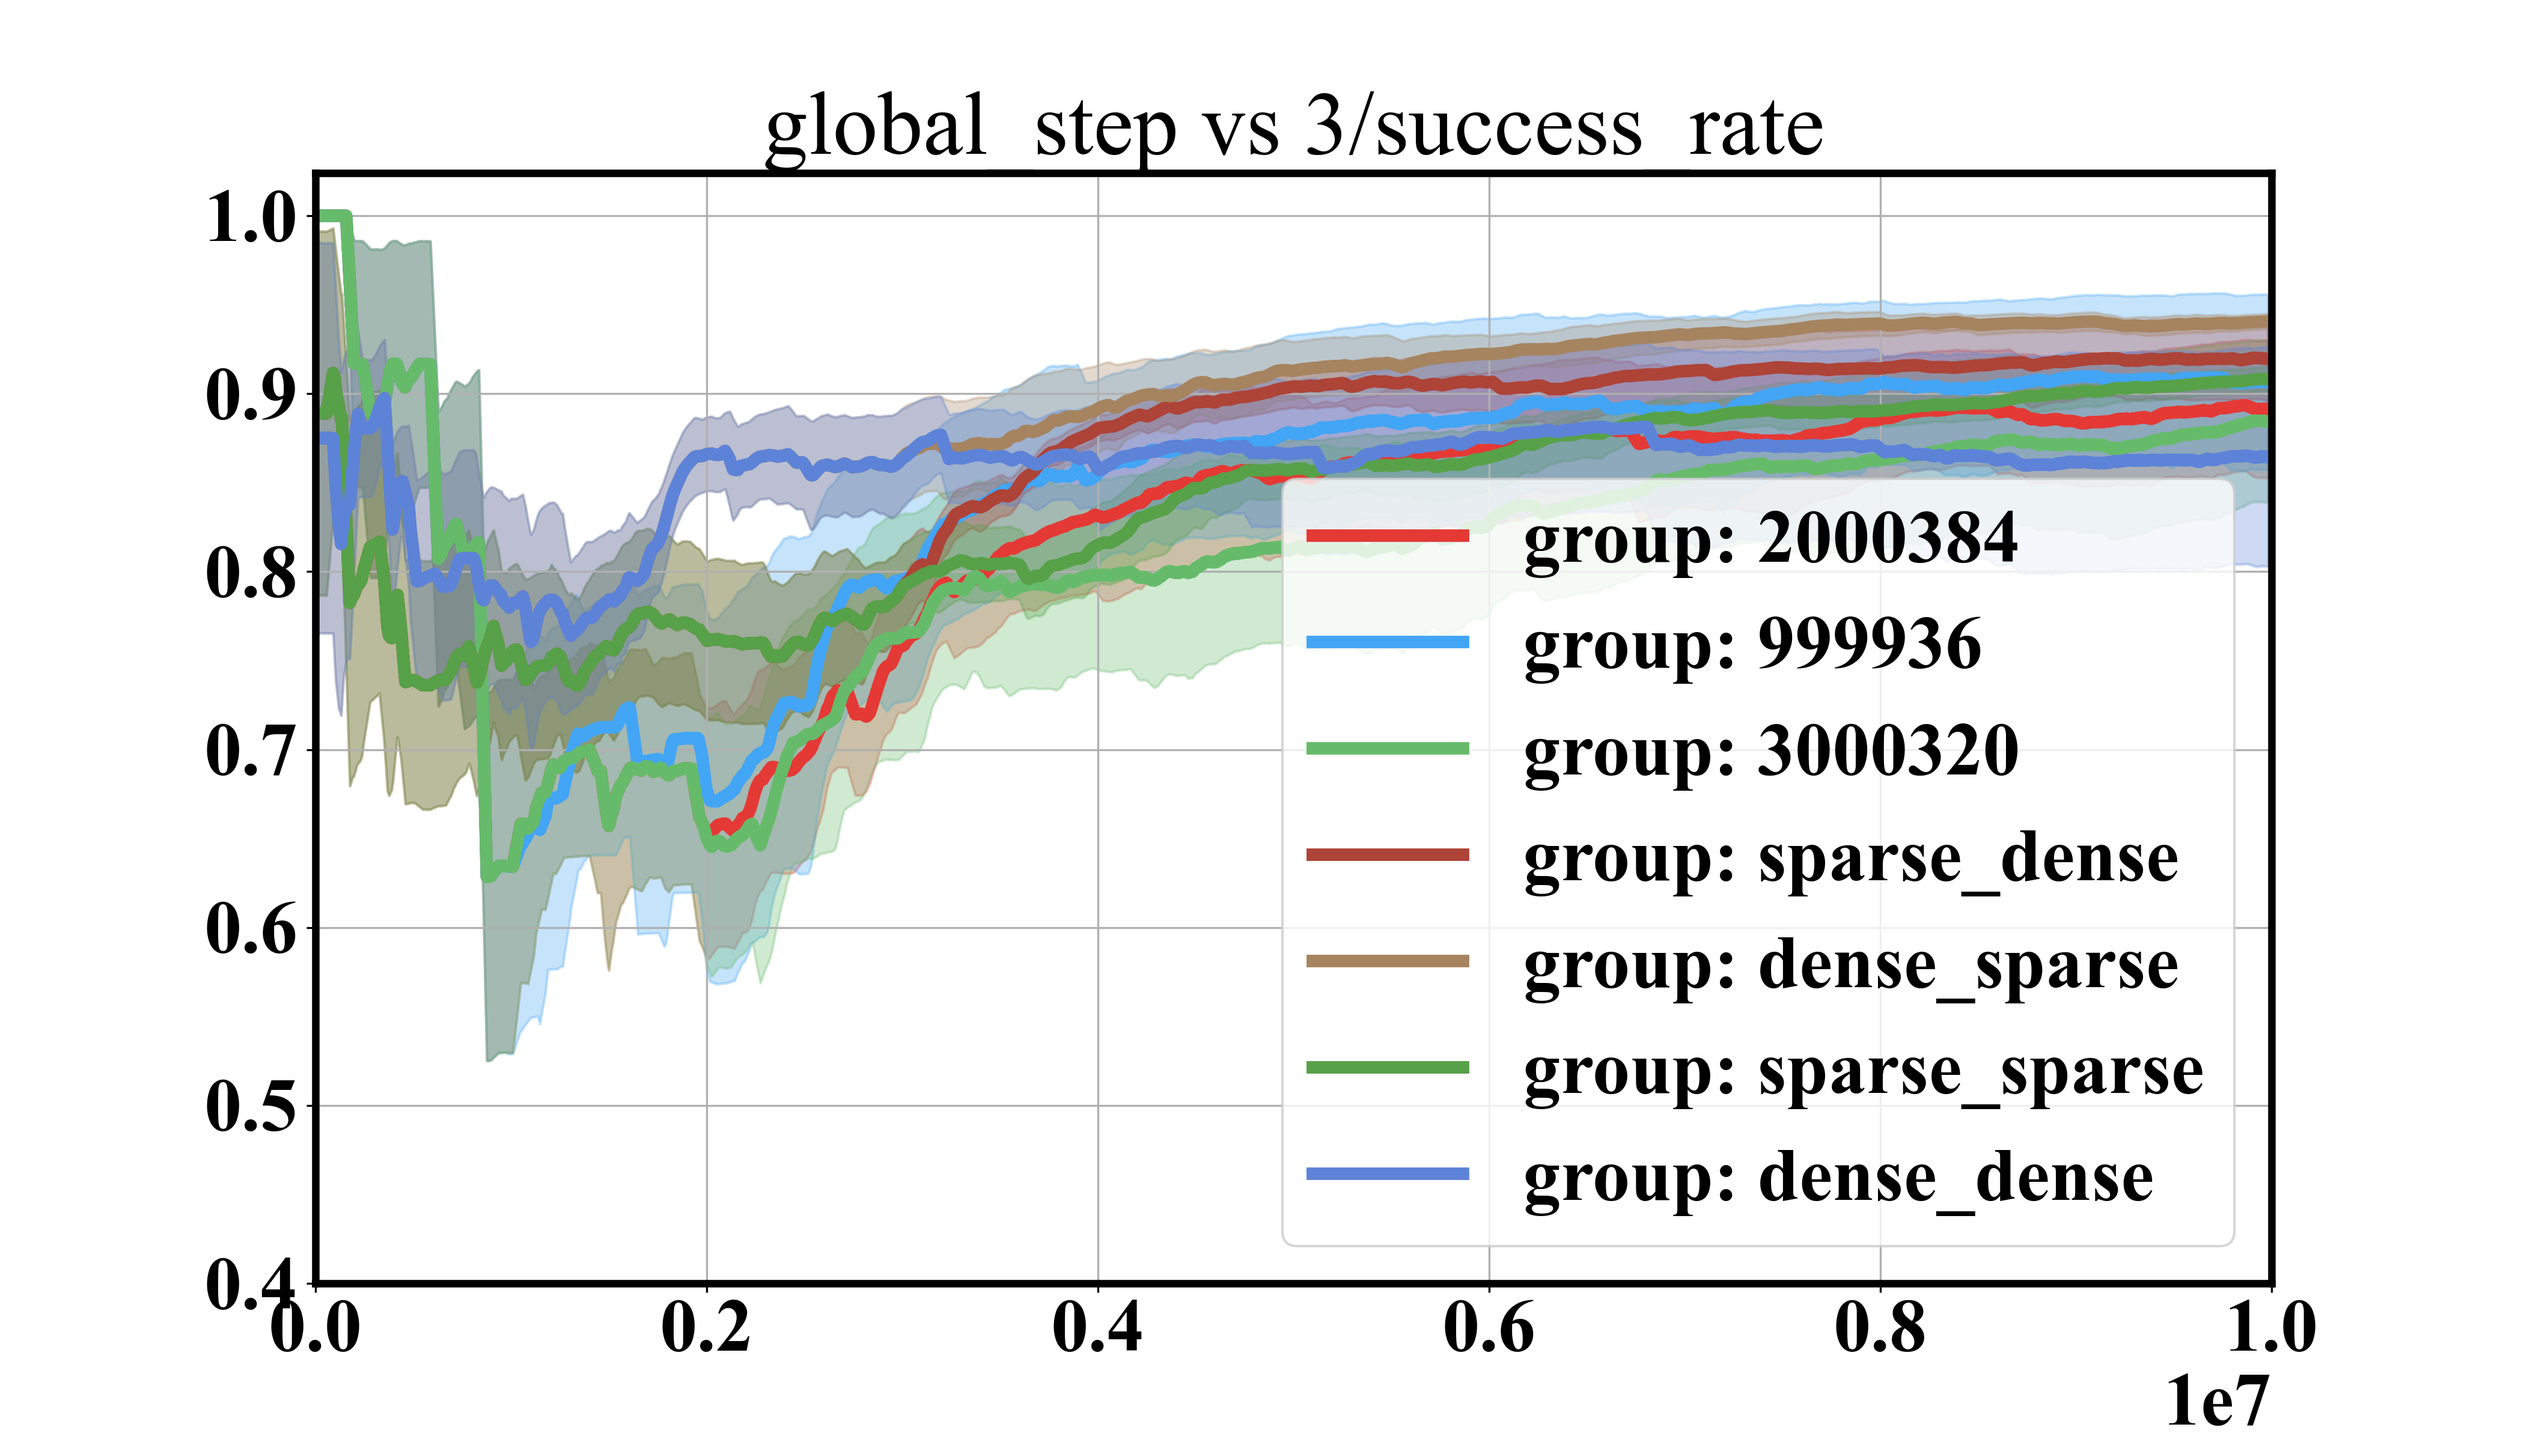
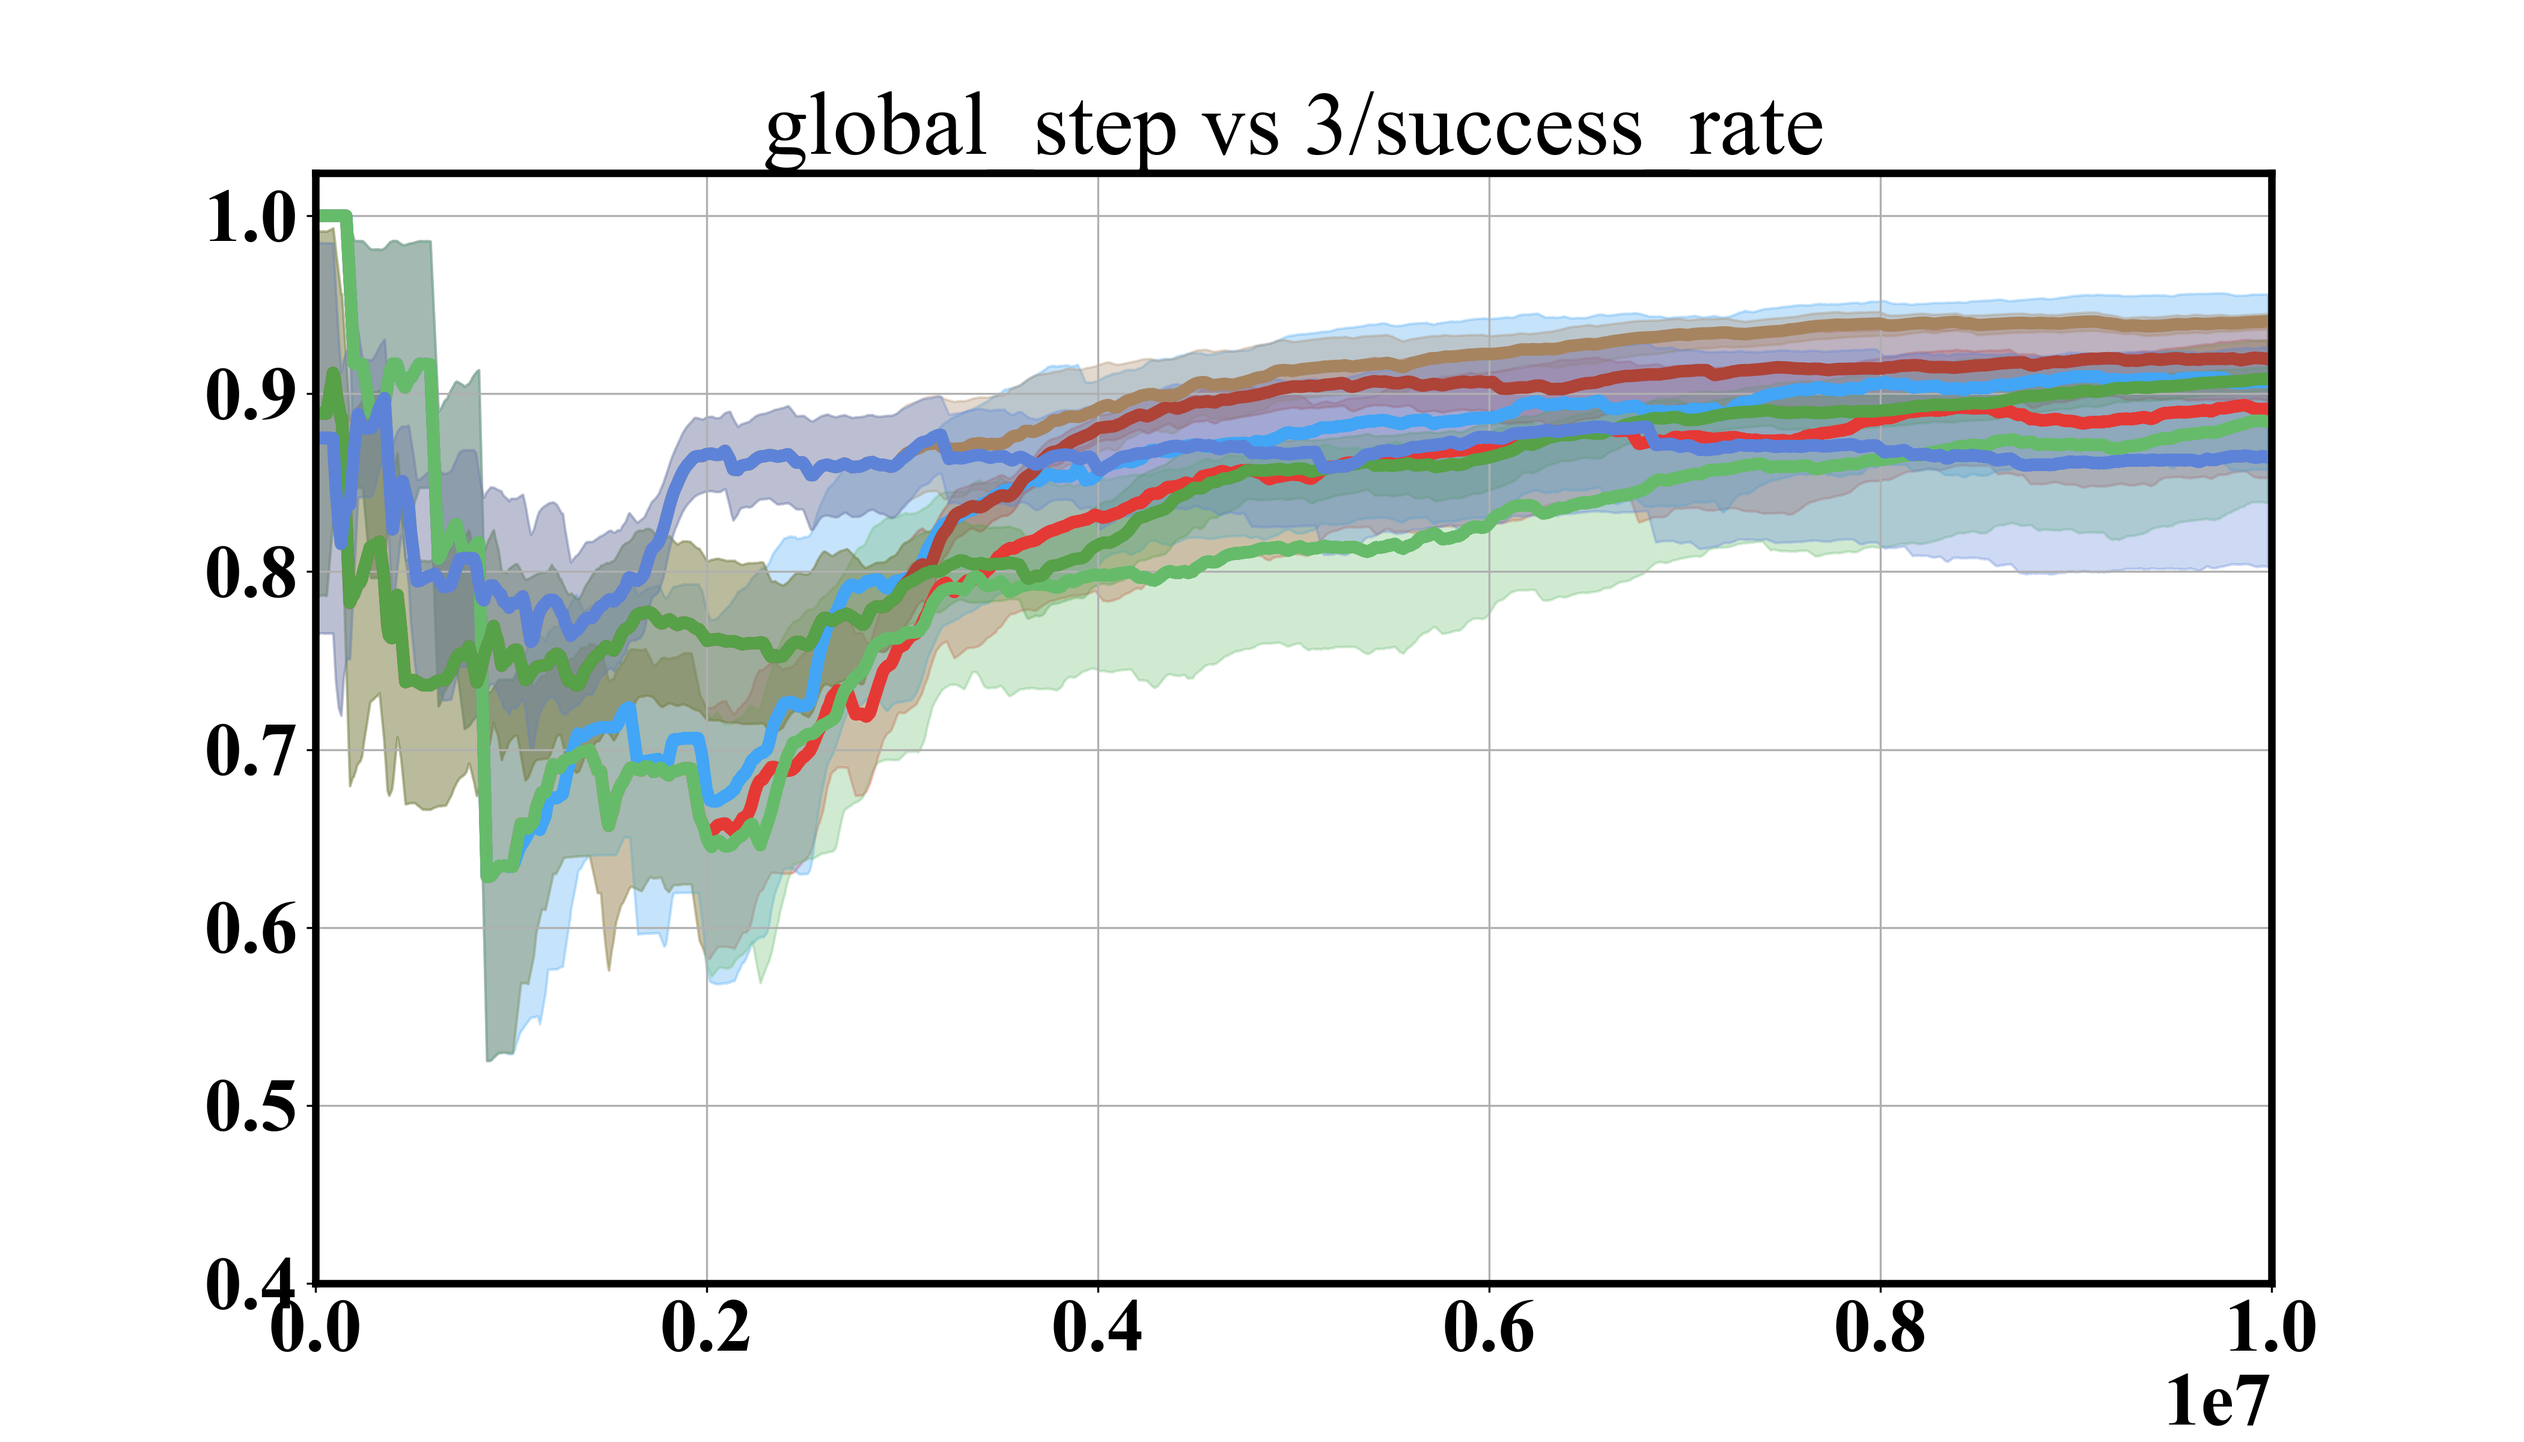
:sparkles: 1206 new figures

diff --git a/post_processing/december/draw_figures_all.py b/post_processing/december/draw_figures_all.py
@@ -1,43 +1,71 @@
 from matplotlib import pyplot as plt
 from sympy.stats import entropy
 
-from post_processing.december.draw_figures_entropy import prepare_entropy_params, plot_entropy_groups, \
-    draw_entropy_figures, save_entropy_figure
-from post_processing.december.draw_normal_experiments import prepare_normal_params, plot_groups_normal_experiments, \
-    plot_impl_normal_experiments
+from post_processing.december.draw_figures_entropy import (
+    prepare_entropy_params,
+    plot_entropy_groups,
+    draw_entropy_figures,
+    save_entropy_figure,
+)
+from post_processing.december.draw_normal_experiments import (
+    prepare_normal_params,
+    plot_groups_normal_experiments,
+    plot_impl_normal_experiments,
+)
 
 
 def plot_groups(
-        entropy_room_groups,
-        entropy_groups_name,
-        entropy_axis,
-        entropy_window_size,
-        normal_room_groups,
-        normal_groups_name,
-        room_axis,
-        normal_window_size
+    entropy_room_groups,
+    entropy_groups_name,
+    entropy_axis,
+    entropy_window_size,
+    normal_room_groups,
+    normal_groups_name,
+    room_axis,
+    normal_window_size,
 ):
     axis_x_name = entropy_axis[0]
     axis_y_name = entropy_axis[1]
 
     plt.figure(figsize=(14, 8))
 
-    draw_entropy_figures(axis_x_name, axis_y_name, entropy_room_groups, entropy_groups_name, entropy_window_size)
-    plot_impl_normal_experiments(axis_x_name, axis_y_name, normal_room_groups, normal_groups_name, normal_window_size)
-    save_entropy_figure(axis_x_name, axis_y_name, entropy_groups_name, "./figures/241206_all")
+    draw_entropy_figures(
+        axis_x_name,
+        axis_y_name,
+        entropy_room_groups,
+        entropy_groups_name,
+        entropy_window_size,
+    )
+    plot_impl_normal_experiments(
+        axis_x_name,
+        axis_y_name,
+        normal_room_groups,
+        normal_groups_name,
+        normal_window_size,
+    )
+    save_entropy_figure(
+        axis_x_name, axis_y_name, entropy_groups_name, "./figures/241206_all"
+    )
 
     # axis_x_name = normal_axis[0]
     # axis_y_name = normal_axis[1]
 
 
-
 def main():
     entropy_axises, entropy_room_groups, entropy_window_size = prepare_entropy_params()
-    normal_axises, normal_room_groups, normal_window_size = prepare_normal_params("../november/merged_241206")
+    normal_axises, normal_room_groups, normal_window_size = prepare_normal_params(
+        "../november/merged_241206"
+    )
     for room_axis in entropy_axises["room"]:
         plot_groups(
-            entropy_room_groups, "room", room_axis, entropy_window_size,
-            normal_room_groups, "room", room_axis, normal_window_size
+            entropy_room_groups,
+            "room",
+            room_axis,
+            entropy_window_size,
+            normal_room_groups,
+            "room",
+            room_axis,
+            normal_window_size,
         )
         print(f"Plotted {room_axis}")
 

diff --git a/post_processing/december/draw_normal_experiments.py b/post_processing/december/draw_normal_experiments.py
@@ -62,7 +62,9 @@ def plot_groups_normal_experiments(
 
     plt.figure(figsize=(14, 8))
 
-    plot_impl_normal_experiments(axis_x_name, axis_y_name, normal_groups, normal_groups_name, normal_window_size)
+    plot_impl_normal_experiments(
+        axis_x_name, axis_y_name, normal_groups, normal_groups_name, normal_window_size
+    )
 
     adjust_and_save_figure(axis_x_name, axis_y_name, normal_groups_name)
 
@@ -98,7 +100,9 @@ def adjust_and_save_figure(axis_x_name, axis_y_name, groups_name):
     print(f"Saved {figure_path}")
 
 
-def plot_impl_normal_experiments(axis_x_name, axis_y_name, groups, groups_name, window_size):
+def plot_impl_normal_experiments(
+    axis_x_name, axis_y_name, groups, groups_name, window_size
+):
     for group_name, group_data in groups.items():
         print(group_name)
         group_data: List[pd.DataFrame]
@@ -190,11 +194,13 @@ def plot_impl_normal_experiments(axis_x_name, axis_y_name, groups, groups_name, 
 def main():
     axises, room_groups, window_size = prepare_normal_params()
     for room_axis in axises["room"]:
-        plot_groups_normal_experiments(room_groups, "room", room_axis, normal_window_size=window_size)
+        plot_groups_normal_experiments(
+            room_groups, "room", room_axis, normal_window_size=window_size
+        )
         print(f"Plotted {room_axis}")
 
 
-def prepare_normal_params(all_run_data_dir = "./merged_241206"):
+def prepare_normal_params(all_run_data_dir="./merged_241206"):
     room_groups = defaultdict(list)
     for file_name in os.listdir(all_run_data_dir):
         # check if csv

diff --git a/post_processing/download_all_run_data.py b/post_processing/download_all_run_data.py
@@ -91,18 +91,16 @@ def main241110():
     group_runs = [
         run
         for run in runs
-        if run.group.startswith("v33-room-")
+        if run.group.startswith("v34-room-")
         and datetime.strptime(run.created_at, "%Y-%m-%dT%H:%M:%SZ")
-        >= datetime(datetime.now().year, 11, 1)
-        and datetime.strptime(run.created_at, "%Y-%m-%dT%H:%M:%SZ")
-        < datetime(datetime.now().year, 11, 30)
+        >= datetime(datetime.now().year, 11, 30)
     ]
     print(f"Found {len(group_runs)} runs")
-    with open("run_lists241207.csv", "w") as f:
+    with open("run_lists241207-icm.csv", "w") as f:
         for run in group_runs:
             f.write(f"{run.id}, {run.group}\n")
     for run in tqdm(group_runs):
-        download_wandb_file(run, "./all_run_data241207")
+        download_wandb_file(run, "./all_run_data241207-icm")
 
 
 if __name__ == "__main__":

diff --git a/post_processing/december/draw_figures_entropy.py b/post_processing/december/draw_figures_entropy.py
@@ -154,10 +154,10 @@ def draw_entropy_figures(axis_x_name, axis_y_name, groups, groups_name, window_s
             )
 
 
-def save_entropy_figure(axis_x_name, axis_y_name, groups_name, figure_dir = "./figures"):
+def save_entropy_figure(axis_x_name, axis_y_name, groups_name, figure_dir="./figures"):
     # plt.xlabel(axis_x_name)
     # plt.ylabel(axis_y_name)
-    plt.legend()
+    # plt.legend()
     plt.title(f"{axis_x_name} vs {axis_y_name}")
     y_max = 8000
     y_min = 0
